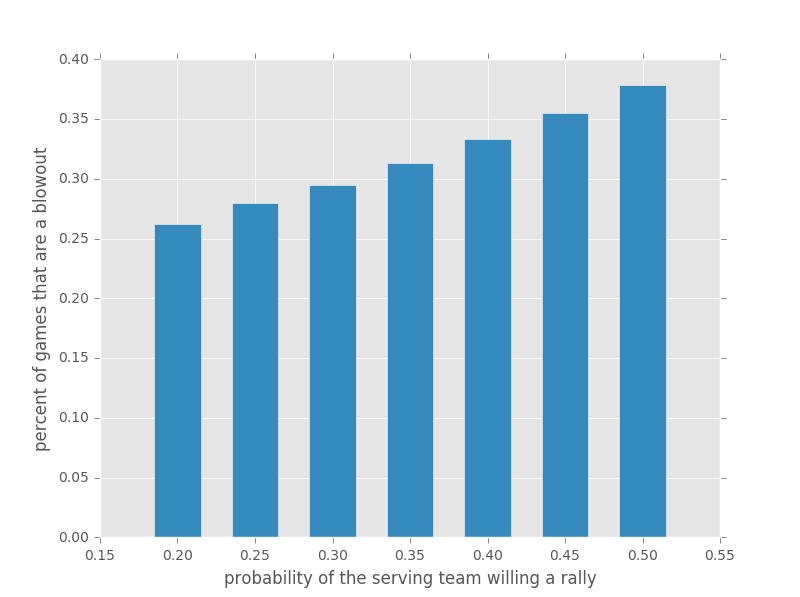
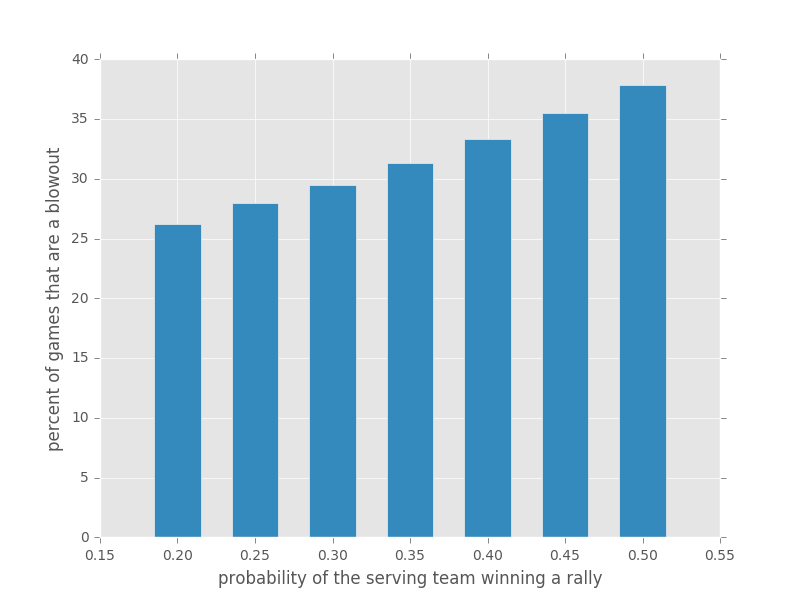
Add files via upload

diff --git a/blowoutsVsPWin.py b/blowoutsVsPWin.py
@@ -28,12 +28,12 @@ plt.style.use('ggplot')
 p_values = [0.2,0.25,0.3,0.35,0.4,0.45,0.5]
 blowoutsPer500000 = [131192,140060,147320,156429,166738,177359,189141]
 
-blowoutPercents = [i/500000 for i in blowoutsPer500000]
+blowoutPercents = [i/500000 * 100 for i in blowoutsPer500000]
 
 width = 0.03
 plt.figure()
 plt.bar(p_values,blowoutPercents, width, align='center')
-plt.xlabel('probability of the serving team willing a rally')
+plt.xlabel('probability of the serving team winning a rally')
 plt.ylabel('percent of games that are a blowout')
 plt.show()
 
